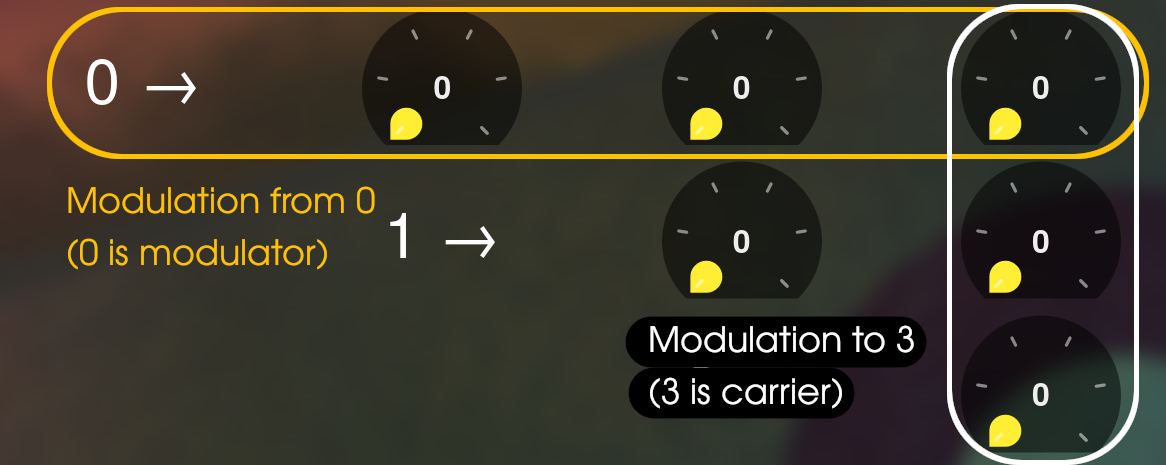
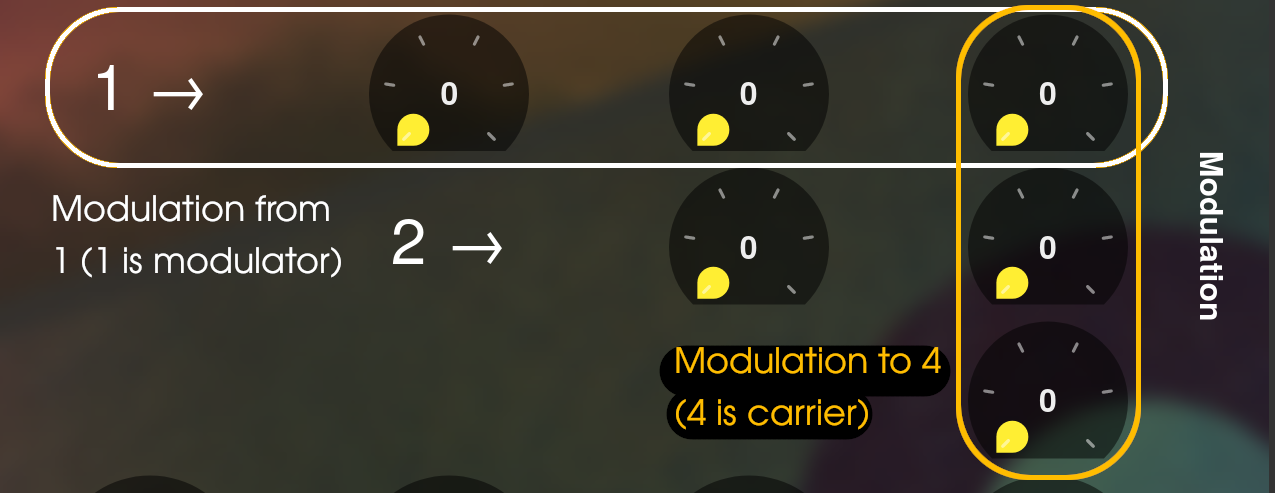
make oscillators 1 indexed in UI

diff --git a/src/lib/ModulationPanel.svelte b/src/lib/ModulationPanel.svelte
@@ -28,7 +28,7 @@
         {/each}
         {#if oscIndex < params.oscs.length - 1}
             <div class="arrow" style:grid-area="{gridArea(oscIndex+1, oscIndex+1)}">
-                {oscIndex}
+                {oscIndex+1}
                 {portrait?'→':'↓'}
             </div>
         {/if}

diff --git a/src/lib/InstrumentPanel.svelte b/src/lib/InstrumentPanel.svelte
@@ -21,7 +21,7 @@
         <heading />
         <div class="box">
             {#each params.oscs as osc, oscIndex}
-                <div class="rowLabel">{oscIndex}</div>
+                <div class="rowLabel">{oscIndex+1}</div>
             {/each}
         </div>
     </section>
